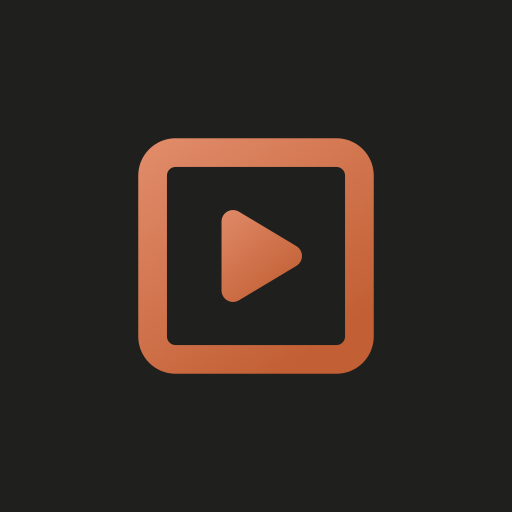
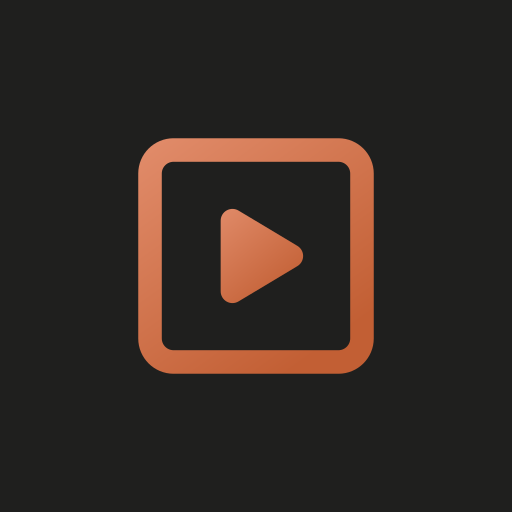
Run the frame edge to edge at lucide's stroke, matching music and mimostats (#342)
* Run the frame edge to edge at lucide's stroke, matching music and mimostats

Side by side in one Safari tab bar, peeq read as the smaller, heavier
mark. Two separate causes, both fixed here.

Coverage 96% -> 1.0. "Near enough edge to edge" left the frame ~1.28px
of 64 inside the canvas, which is visible next to two icons that run
flush. Painted extent goes 492x492+10+10 -> 512x512+0+0 at 512px, the
same as music's and mimostats'.

Stroke 2.5 -> 2, lucide's own weight and what the other two carry. This
CONTRADICTS the finding recorded in icon.svg, which held that a 2-unit
frame washes out at 16px. That half did not survive being looked at
against the other two apps on a real screen — it does not wash out, and
at 2.5 peeq's band measured 71/512 against their 52/512. The other half
of that finding, that a heavier stroke closes the gap to the filled
wedge, still holds and is untouched: going the other way is what closes
it. Rendered at 16px the wedge stays clear.

All four sources move together, so the family keeps one weight, with
each transform recomputed from the file's own coverage via the shared
scale = 64*C/(18+stroke), translate = 32 - 12*scale. The tiled sources
keep their own insets (0.60, 0.46) — the OS crops those, a different
constraint from a tab's.

SignInMark in ui/src/shell/SignIn.tsx is the same frame drawn in JSX and
follows: strokeWidth 2, and its viewBox is the true bbox so it goes
1.75 1.75 20.5 20.5 -> 2 2 20 20. Leaving it would have made peeq's own
[…]

diff --git a/ui/src/shell/SignIn.tsx b/ui/src/shell/SignIn.tsx
@@ -5,7 +5,7 @@ import { Spinner, buttonClass } from "../ui";
  *
  * Same geometry as the favicon (ui/public/icon.svg): lucide `square-play` with
  * the wedge filled rather than stroked, and a viewBox set to the frame's true
- * outline at stroke 2.5 — 1.75 1.75 20.5 20.5 — not the nominal 24x24, which is
+ * outline at stroke 2 — 2 2 20 20 — not the nominal 24x24, which is
  * two thirds empty and would draw the mark small inside its own box.
  *
  * The rail dropped its copy of this in #286 (loom's header carries a word and
@@ -16,11 +16,7 @@ import { Spinner, buttonClass } from "../ui";
  */
 function SignInMark() {
   return (
-    <svg
-      className="signin-logo"
-      viewBox="1.75 1.75 20.5 20.5"
-      aria-hidden="true"
-    >
+    <svg className="signin-logo" viewBox="2 2 20 20" aria-hidden="true">
       <linearGradient id="signin-mark-grad" x1="0" y1="0" x2="0.72" y2="1">
         <stop className="s0" offset="0" />
         <stop className="s1" offset="1" />
@@ -33,7 +29,7 @@ function SignInMark() {
         rx="2"
         fill="none"
         stroke="url(#signin-mark-grad)"
-        strokeWidth="2.5"
+        strokeWidth="2"
         strokeLinejoin="round"
       />
       <path

diff --git a/backend/web/dist/index.html b/backend/web/dist/index.html
@@ -14,8 +14,8 @@
     <link rel="apple-touch-icon" href="/apple-touch-icon.png" />
     <link rel="manifest" href="/site.webmanifest" />
     <meta name="theme-color" content="#1f1f1e" />
-    <script type="module" crossorigin src="/assets/index-Xl9EXTF5.js"></script>
-    <link rel="stylesheet" crossorigin href="/assets/index-DeQFHcHL.css">
+    <script type="module" crossorigin src="/assets/index-BNqqLG9Z.js"></script>
+    <link rel="stylesheet" crossorigin href="/assets/index-DII69mzd.css">
   </head>
   <body>
     <div id="root"></div>
